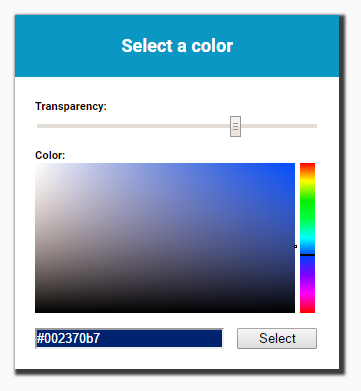
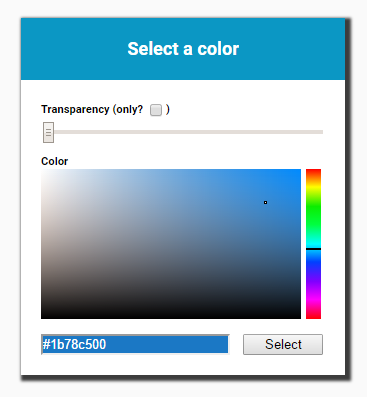
Adapted Readme to new functionality
Added and updated screenshots

diff --git a/README.md b/README.md
@@ -6,7 +6,7 @@ You may create a dialog, open it via javascript and optionally pass in a initial
 
 The code for the actual color picker is taken from FlexiColorPicker by DavidDurman (licensed under MIT License): https://github.com/DavidDurman/FlexiColorPicker
 
-![Screenshot](color-picker-demo.png)
+![Screenshot](color-picker-demo.png) ![Screenshot Transparency only](color-picker-demo-transparency-only.png)
 
 ## Develop
 
